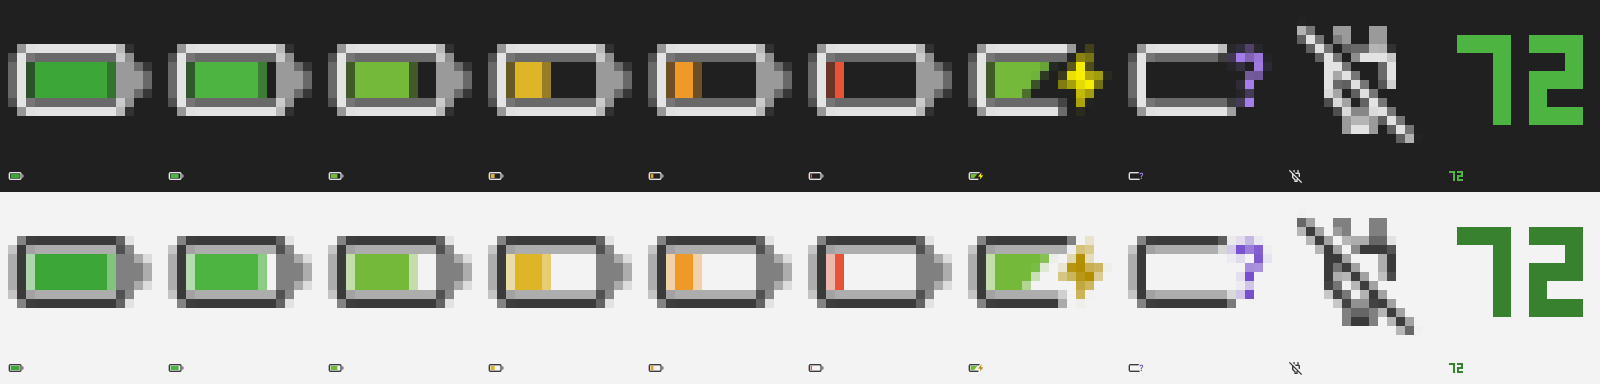
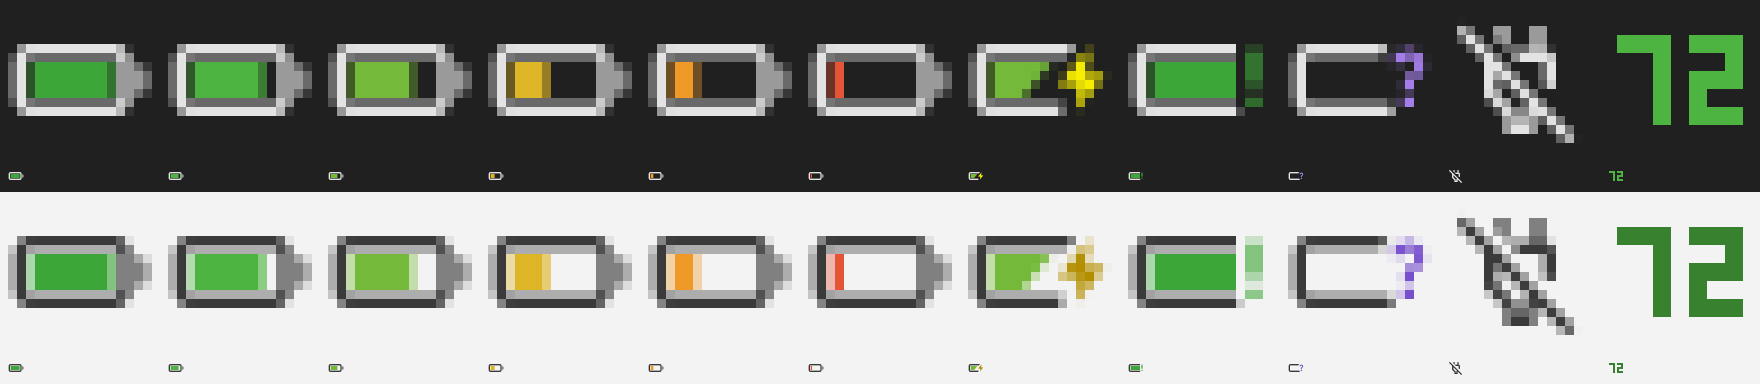
Reprend battery_full_charging retouché
Le fichier a changé de structure : le cadre s'ouvre à droite et deux
pièces vertes y forment un point d'exclamation, à la place du téton.
L'éclair a disparu.

La planche de contrôle gagne le cas « charge à 100 % ». Elle ne montrait
que la charge à 60 %, donc jamais cette icône-là — un dessin qu'aucune
vérification ne regarde peut changer sans qu'on s'en aperçoive.

diff --git a/src/icons.rs b/src/icons.rs
@@ -2315,6 +2315,106 @@ const M91: [u8; 1024] = [
 const M92: [u8; 256] = [
     0,0,0,0,0,0,0,0,0,0,0,0,0,0,0,0,
     0,0,0,0,0,0,0,0,0,0,0,0,0,0,0,0,
+    0,0,0,0,0,0,0,0,0,0,0,0,0,0,0,0,
+    0,0,0,0,0,0,0,0,0,0,0,0,0,0,0,0,
+    0,0,0,0,0,0,0,0,0,0,0,0,0,0,0,0,
+    0,0,0,0,0,0,0,0,0,0,0,0,0,0,0,0,
+    0,0,96,255,255,255,255,255,255,255,255,255,0,0,0,0,
+    0,0,96,255,255,255,255,255,255,255,255,255,0,0,0,0,
+    0,0,96,255,255,255,255,255,255,255,255,255,0,0,0,0,
+    0,0,96,255,255,255,255,255,255,255,255,255,0,0,0,0,
+    0,0,0,0,0,0,0,0,0,0,0,0,0,0,0,0,
+    0,0,0,0,0,0,0,0,0,0,0,0,0,0,0,0,
+    0,0,0,0,0,0,0,0,0,0,0,0,0,0,0,0,
+    0,0,0,0,0,0,0,0,0,0,0,0,0,0,0,0,
+    0,0,0,0,0,0,0,0,0,0,0,0,0,0,0,0,
+    0,0,0,0,0,0,0,0,0,0,0,0,0,0,0,0,
+];
+const M93: [u8; 400] = [
+    0,0,0,0,0,0,0,0,0,0,0,0,0,0,0,0,0,0,0,0,
+    0,0,0,0,0,0,0,0,0,0,0,0,0,0,0,0,0,0,0,0,
+    0,0,0,0,0,0,0,0,0,0,0,0,0,0,0,0,0,0,0,0,
+    0,0,0,0,0,0,0,0,0,0,0,0,0,0,0,0,0,0,0,0,
+    0,0,0,0,0,0,0,0,0,0,0,0,0,0,0,0,0,0,0,0,
+    0,0,0,0,0,0,0,0,0,0,0,0,0,0,0,0,0,0,0,0,
+    0,0,0,0,0,0,0,0,0,0,0,0,0,0,0,0,0,0,0,0,
+    0,0,0,80,128,128,128,128,128,128,128,128,128,128,128,0,0,0,0,0,
+    0,0,0,159,255,255,255,255,255,255,255,255,255,255,255,0,0,0,0,0,
+    0,0,0,159,255,255,255,255,255,255,255,255,255,255,255,0,0,0,0,0,
+    0,0,0,159,255,255,255,255,255,255,255,255,255,255,255,0,0,0,0,0,
+    0,0,0,159,255,255,255,255,255,255,255,255,255,255,255,0,0,0,0,0,
+    0,0,0,80,128,128,128,128,128,128,128,128,128,128,128,0,0,0,0,0,
+    0,0,0,0,0,0,0,0,0,0,0,0,0,0,0,0,0,0,0,0,
+    0,0,0,0,0,0,0,0,0,0,0,0,0,0,0,0,0,0,0,0,
+    0,0,0,0,0,0,0,0,0,0,0,0,0,0,0,0,0,0,0,0,
+    0,0,0,0,0,0,0,0,0,0,0,0,0,0,0,0,0,0,0,0,
+    0,0,0,0,0,0,0,0,0,0,0,0,0,0,0,0,0,0,0,0,
+    0,0,0,0,0,0,0,0,0,0,0,0,0,0,0,0,0,0,0,0,
+    0,0,0,0,0,0,0,0,0,0,0,0,0,0,0,0,0,0,0,0,
+];
+const M94: [u8; 576] = [
+    0,0,0,0,0,0,0,0,0,0,0,0,0,0,0,0,0,0,0,0,0,0,0,0,
+    0,0,0,0,0,0,0,0,0,0,0,0,0,0,0,0,0,0,0,0,0,0,0,0,
+    0,0,0,0,0,0,0,0,0,0,0,0,0,0,0,0,0,0,0,0,0,0,0,0,
+    0,0,0,0,0,0,0,0,0,0,0,0,0,0,0,0,0,0,0,0,0,0,0,0,
+    0,0,0,0,0,0,0,0,0,0,0,0,0,0,0,0,0,0,0,0,0,0,0,0,
+    0,0,0,0,0,0,0,0,0,0,0,0,0,0,0,0,0,0,0,0,0,0,0,0,
+    0,0,0,0,0,0,0,0,0,0,0,0,0,0,0,0,0,0,0,0,0,0,0,0,
+    0,0,0,0,0,0,0,0,0,0,0,0,0,0,0,0,0,0,0,0,0,0,0,0,
+    0,0,0,0,0,0,0,0,0,0,0,0,0,0,0,0,0,0,0,0,0,0,0,0,
+    0,0,0,0,255,255,255,255,255,255,255,255,255,255,255,255,255,255,0,0,0,0,0,0,
+    0,0,0,0,255,255,255,255,255,255,255,255,255,255,255,255,255,255,0,0,0,0,0,0,
+    0,0,0,0,255,255,255,255,255,255,255,255,255,255,255,255,255,255,0,0,0,0,0,0,
+    0,0,0,0,255,255,255,255,255,255,255,255,255,255,255,255,255,255,0,0,0,0,0,0,
+    0,0,0,0,255,255,255,255,255,255,255,255,255,255,255,255,255,255,0,0,0,0,0,0,
+    0,0,0,0,255,255,255,255,255,255,255,255,255,255,255,255,255,255,0,0,0,0,0,0,
+    0,0,0,0,0,0,0,0,0,0,0,0,0,0,0,0,0,0,0,0,0,0,0,0,
+    0,0,0,0,0,0,0,0,0,0,0,0,0,0,0,0,0,0,0,0,0,0,0,0,
+    0,0,0,0,0,0,0,0,0,0,0,0,0,0,0,0,0,0,0,0,0,0,0,0,
+    0,0,0,0,0,0,0,0,0,0,0,0,0,0,0,0,0,0,0,0,0,0,0,0,
+    0,0,0,0,0,0,0,0,0,0,0,0,0,0,0,0,0,0,0,0,0,0,0,0,
+    0,0,0,0,0,0,0,0,0,0,0,0,0,0,0,0,0,0,0,0,0,0,0,0,
+    0,0,0,0,0,0,0,0,0,0,0,0,0,0,0,0,0,0,0,0,0,0,0,0,
+    0,0,0,0,0,0,0,0,0,0,0,0,0,0,0,0,0,0,0,0,0,0,0,0,
+    0,0,0,0,0,0,0,0,0,0,0,0,0,0,0,0,0,0,0,0,0,0,0,0,
+];
+const M95: [u8; 1024] = [
+    0,0,0,0,0,0,0,0,0,0,0,0,0,0,0,0,0,0,0,0,0,0,0,0,0,0,0,0,0,0,0,0,
+    0,0,0,0,0,0,0,0,0,0,0,0,0,0,0,0,0,0,0,0,0,0,0,0,0,0,0,0,0,0,0,0,
+    0,0,0,0,0,0,0,0,0,0,0,0,0,0,0,0,0,0,0,0,0,0,0,0,0,0,0,0,0,0,0,0,
+    0,0,0,0,0,0,0,0,0,0,0,0,0,0,0,0,0,0,0,0,0,0,0,0,0,0,0,0,0,0,0,0,
+    0,0,0,0,0,0,0,0,0,0,0,0,0,0,0,0,0,0,0,0,0,0,0,0,0,0,0,0,0,0,0,0,
+    0,0,0,0,0,0,0,0,0,0,0,0,0,0,0,0,0,0,0,0,0,0,0,0,0,0,0,0,0,0,0,0,
+    0,0,0,0,0,0,0,0,0,0,0,0,0,0,0,0,0,0,0,0,0,0,0,0,0,0,0,0,0,0,0,0,
+    0,0,0,0,0,0,0,0,0,0,0,0,0,0,0,0,0,0,0,0,0,0,0,0,0,0,0,0,0,0,0,0,
+    0,0,0,0,0,0,0,0,0,0,0,0,0,0,0,0,0,0,0,0,0,0,0,0,0,0,0,0,0,0,0,0,
+    0,0,0,0,0,0,0,0,0,0,0,0,0,0,0,0,0,0,0,0,0,0,0,0,0,0,0,0,0,0,0,0,
+    0,0,0,0,0,0,0,0,0,0,0,0,0,0,0,0,0,0,0,0,0,0,0,0,0,0,0,0,0,0,0,0,
+    0,0,0,0,0,0,0,0,0,0,0,0,0,0,0,0,0,0,0,0,0,0,0,0,0,0,0,0,0,0,0,0,
+    0,0,0,0,0,159,255,255,255,255,255,255,255,255,255,255,255,255,255,255,255,255,255,255,0,0,0,0,0,0,0,0,
+    0,0,0,0,0,159,255,255,255,255,255,255,255,255,255,255,255,255,255,255,255,255,255,255,0,0,0,0,0,0,0,0,
+    0,0,0,0,0,159,255,255,255,255,255,255,255,255,255,255,255,255,255,255,255,255,255,255,0,0,0,0,0,0,0,0,
+    0,0,0,0,0,159,255,255,255,255,255,255,255,255,255,255,255,255,255,255,255,255,255,255,0,0,0,0,0,0,0,0,
+    0,0,0,0,0,159,255,255,255,255,255,255,255,255,255,255,255,255,255,255,255,255,255,255,0,0,0,0,0,0,0,0,
+    0,0,0,0,0,159,255,255,255,255,255,255,255,255,255,255,255,255,255,255,255,255,255,255,0,0,0,0,0,0,0,0,
+    0,0,0,0,0,159,255,255,255,255,255,255,255,255,255,255,255,255,255,255,255,255,255,255,0,0,0,0,0,0,0,0,
+    0,0,0,0,0,159,255,255,255,255,255,255,255,255,255,255,255,255,255,255,255,255,255,255,0,0,0,0,0,0,0,0,
+    0,0,0,0,0,0,0,0,0,0,0,0,0,0,0,0,0,0,0,0,0,0,0,0,0,0,0,0,0,0,0,0,
+    0,0,0,0,0,0,0,0,0,0,0,0,0,0,0,0,0,0,0,0,0,0,0,0,0,0,0,0,0,0,0,0,
+    0,0,0,0,0,0,0,0,0,0,0,0,0,0,0,0,0,0,0,0,0,0,0,0,0,0,0,0,0,0,0,0,
+    0,0,0,0,0,0,0,0,0,0,0,0,0,0,0,0,0,0,0,0,0,0,0,0,0,0,0,0,0,0,0,0,
+    0,0,0,0,0,0,0,0,0,0,0,0,0,0,0,0,0,0,0,0,0,0,0,0,0,0,0,0,0,0,0,0,
+    0,0,0,0,0,0,0,0,0,0,0,0,0,0,0,0,0,0,0,0,0,0,0,0,0,0,0,0,0,0,0,0,
+    0,0,0,0,0,0,0,0,0,0,0,0,0,0,0,0,0,0,0,0,0,0,0,0,0,0,0,0,0,0,0,0,
+    0,0,0,0,0,0,0,0,0,0,0,0,0,0,0,0,0,0,0,0,0,0,0,0,0,0,0,0,0,0,0,0,
+    0,0,0,0,0,0,0,0,0,0,0,0,0,0,0,0,0,0,0,0,0,0,0,0,0,0,0,0,0,0,0,0,
+    0,0,0,0,0,0,0,0,0,0,0,0,0,0,0,0,0,0,0,0,0,0,0,0,0,0,0,0,0,0,0,0,
+    0,0,0,0,0,0,0,0,0,0,0,0,0,0,0,0,0,0,0,0,0,0,0,0,0,0,0,0,0,0,0,0,
+    0,0,0,0,0,0,0,0,0,0,0,0,0,0,0,0,0,0,0,0,0,0,0,0,0,0,0,0,0,0,0,0,
+];
+const M96: [u8; 256] = [
+    0,0,0,0,0,0,0,0,0,0,0,0,0,0,0,0,
+    0,0,0,0,0,0,0,0,0,0,0,0,0,0,0,0,
     0,0,0,0,0,159,159,0,0,159,159,0,0,0,0,0,
     0,0,0,0,0,120,159,0,0,159,159,0,0,0,0,0,
     0,0,0,0,0,0,84,96,96,195,191,24,0,0,0,0,
@@ -2330,7 +2430,7 @@ const M92: [u8; 256] = [
     0,0,0,0,0,0,0,0,0,0,0,0,0,0,0,0,
     0,0,0,0,0,0,0,0,0,0,0,0,0,0,0,0,
 ];
-const M93: [u8; 256] = [
+const M97: [u8; 256] = [
     0,0,0,0,0,0,0,0,0,0,0,0,0,0,0,0,
     0,4,0,0,0,0,0,0,0,0,0,0,0,0,0,0,
     0,191,112,0,0,0,0,0,0,0,0,0,0,0,0,0,
@@ -2348,7 +2448,7 @@ const M93: [u8; 256] = [
     0,0,0,0,0,0,0,0,0,0,0,0,84,191,4,0,
     0,0,0,0,0,0,0,0,0,0,0,0,0,0,0,0,
 ];
-const M94: [u8; 400] = [
+const M98: [u8; 400] = [
     0,0,0,0,0,0,0,0,0,0,0,0,0,0,0,0,0,0,0,0,
     0,0,0,0,0,0,0,0,0,0,0,0,0,0,0,0,0,0,0,0,
     0,0,0,0,0,0,48,128,48,0,0,48,128,48,0,0,0,0,0,0,
@@ -2370,7 +2470,7 @@ const M94: [u8; 400] = [
     0,0,0,0,0,0,0,0,0,0,0,0,0,0,0,0,0,0,0,0,
     0,0,0,0,0,0,0,0,0,0,0,0,0,0,0,0,0,0,0,0,
 ];
-const M95: [u8; 400] = [
+const M99: [u8; 400] = [
     0,0,0,0,0,0,0,0,0,0,0,0,0,0,0,0,0,0,0,0,
     0,0,0,0,0,0,0,0,0,0,0,0,0,0,0,0,0,0,0,0,
     0,12,92,0,0,0,0,0,0,0,0,0,0,0,0,0,0,0,0,0,
@@ -2392,7 +2492,7 @@ const M95: [u8; 400] = [
     0,0,0,0,0,0,0,0,0,0,0,0,0,0,0,12,143,12,0,0,
     0,0,0,0,0,0,0,0,0,0,0,0,0,0,0,0,0,0,0,0,
 ];
-const M96: [u8; 576] = [
+const M100: [u8; 576] = [
     0,0,0,0,0,0,0,0,0,0,0,0,0,0,0,0,0,0,0,0,0,0,0,0,
     0,0,0,0,0,0,0,0,0,0,0,0,0,0,0,0,0,0,0,0,0,0,0,0,
     0,0,0,0,0,0,0,0,0,0,0,0,0,0,0,0,0,0,0,0,0,0,0,0,
@@ -2418,7 +2518,7 @@ const M96: [u8; 576] = [
     0,0,0,0,0,0,0,0,0,0,0,0,0,0,0,0,0,0,0,0,0,0,0,0,
     0,0,0,0,0,0,0,0,0,0,0,0,0,0,0,0,0,0,0,0,0,0,0,0,
 ];
-const M97: [u8; 576] = [
+const M101: [u8; 576] = [
     0,0,0,0,0,0,0,0,0,0,0,0,0,0,0,0,0,0,0,0,0,0,0,0,
     0,0,0,0,0,0,0,0,0,0,0,0,0,0,0,0,0,0,0,0,0,0,0,0,
     0,0,8,0,0,0,0,0,0,0,0,0,0,0,0,0,0,0,0,0,0,0,0,0,
@@ -2444,7 +2544,7 @@ const M97: [u8; 576] = [
     0,0,0,0,0,0,0,0,0,0,0,0,0,0,0,0,0,0,0,76,24,0,0,0,
     0,0,0,0,0,0,0,0,0,0,0,0,0,0,0,0,0,0,0,0,0,0,0,0,
 ];
-const M98: [u8; 1024] = [
+const M102: [u8; 1024] = [
     0,0,0,0,0,0,0,0,0,0,0,0,0,0,0,0,0,0,0,0,0,0,0,0,0,0,0,0,0,0,0,0,
     0,0,0,0,0,0,0,0,0,0,0,0,0,0,0,0,0,0,0,0,0,0,0,0,0,0,0,0,0,0,0,0,
     0,0,0,0,0,0,0,0,0,0,0,0,0,0,0,0,0,0,0,0,0,0,0,0,0,0,0,0,0,0,0,0,
@@ -2478,7 +2578,7 @@ const M98: [u8; 1024] = [
     0,0,0,0,0,0,0,0,0,0,0,0,0,0,0,0,0,0,0,0,0,0,0,0,0,0,0,0,0,0,0,0,
     0,0,0,0,0,0,0,0,0,0,0,0,0,0,0,0,0,0,0,0,0,0,0,0,0,0,0,0,0,0,0,0,
 ];
-const M99: [u8; 1024] = [
+const M103: [u8; 1024] = [
     0,0,0,0,0,0,0,0,0,0,0,0,0,0,0,0,0,0,0,0,0,0,0,0,0,0,0,0,0,0,0,0,
     0,0,0,0,0,0,0,0,0,0,0,0,0,0,0,0,0,0,0,0,0,0,0,0,0,0,0,0,0,0,0,0,
     0,0,0,0,0,0,0,0,0,0,0,0,0,0,0,0,0,0,0,0,0,0,0,0,0,0,0,0,0,0,0,0,
@@ -2894,45 +2994,49 @@ pub const BATTERY_FULL_32: &[Layer] = &[
 ];
 
 pub const BATTERY_FULL_CHARGING_16: &[Layer] = &[
-    (&M60, Some((0x3D, 0xA6, 0x38))),
-    (&M12, Some((0xF8, 0xED, 0x01))),
-    (&M13, None),
+    (&M92, Some((0x3D, 0xA6, 0x38))),
+    (&M76, None),
+    (&M77, Some((0x3D, 0xA6, 0x38))),
+    (&M78, Some((0x3D, 0xA6, 0x38))),
 ];
 
 pub const BATTERY_FULL_CHARGING_20: &[Layer] = &[
-    (&M61, Some((0x3D, 0xA6, 0x38))),
-    (&M15, Some((0xF8, 0xED, 0x01))),
-    (&M16, None),
+    (&M93, Some((0x3D, 0xA6, 0x38))),
+    (&M79, None),
+    (&M80, Some((0x3D, 0xA6, 0x38))),
+    (&M81, Some((0x3D, 0xA6, 0x38))),
 ];
 
 pub const BATTERY_FULL_CHARGING_24: &[Layer] = &[
-    (&M62, Some((0x3D, 0xA6, 0x38))),
-    (&M18, Some((0xF8, 0xED, 0x01))),
-    (&M19, None),
+    (&M94, Some((0x3D, 0xA6, 0x38))),
+    (&M82, None),
+    (&M83, Some((0x3D, 0xA6, 0x38))),
+    (&M84, Some((0x3D, 0xA6, 0x38))),
 ];
 
 pub const BATTERY_FULL_CHARGING_32: &[Layer] = &[
-    (&M63, Some((0x3D, 0xA6, 0x38))),
-    (&M21, Some((0xF8, 0xED, 0x01))),
-    (&M22, None),
+    (&M95, Some((0x3D, 0xA6, 0x38))),
+    (&M85, None),
+    (&M86, Some((0x3D, 0xA6, 0x38))),
+    (&M87, Some((0x3D, 0xA6, 0x38))),
 ];
 
 pub const UNPLUGGED_16: &[Layer] = &[
-    (&M92, None),
-    (&M93, None),
-];
-
-pub const UNPLUGGED_20: &[Layer] = &[
-    (&M94, None),
-    (&M95, None),
-];
-
-pub const UNPLUGGED_24: &[Layer] = &[
     (&M96, None),
     (&M97, None),
 ];
 
-pub const UNPLUGGED_32: &[Layer] = &[
+pub const UNPLUGGED_20: &[Layer] = &[
     (&M98, None),
     (&M99, None),
+];
+
+pub const UNPLUGGED_24: &[Layer] = &[
+    (&M100, None),
+    (&M101, None),
+];
+
+pub const UNPLUGGED_32: &[Layer] = &[
+    (&M102, None),
+    (&M103, None),
 ];

diff --git a/src/icon.rs b/src/icon.rs
@@ -496,7 +496,8 @@ mod tests {
             ("40", battery(40, false), false),
             ("25", battery(25, false), false),
             ("8", battery(8, false), false),
-            ("charge", battery(60, true), false),
+            ("charge 60", battery(60, true), false),
+            ("charge 100", battery(100, true), false),
             ("socle", IconState::Docked, false),
             ("absente", IconState::Disconnected, false),
             ("chiffre", battery(72, false), true),
